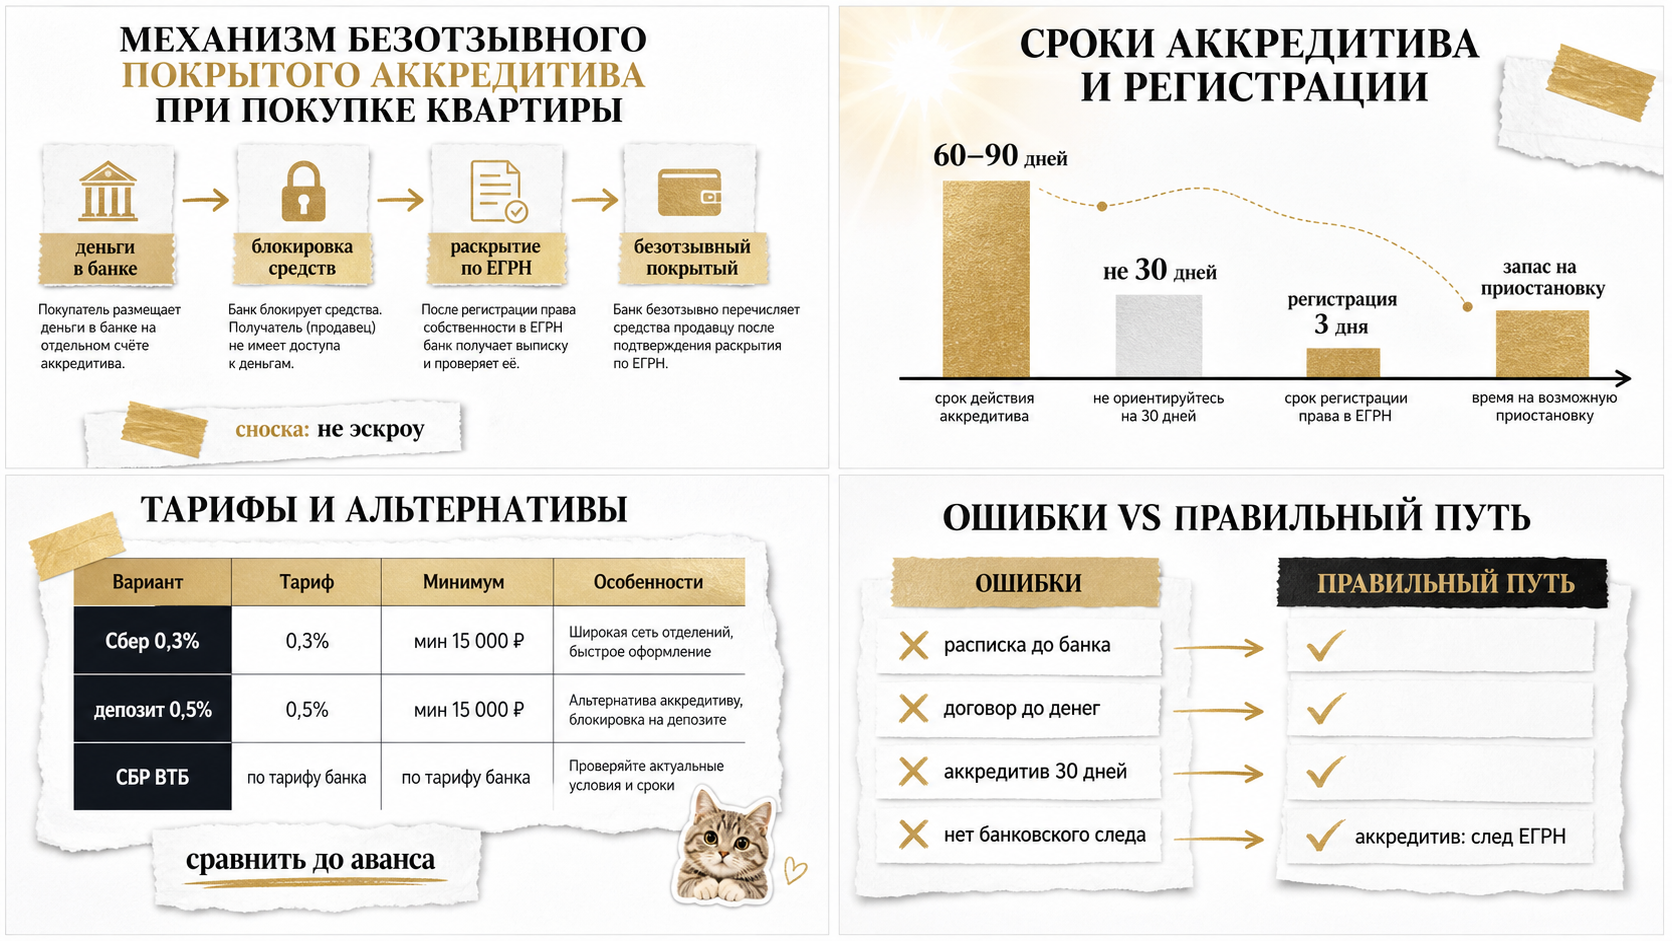
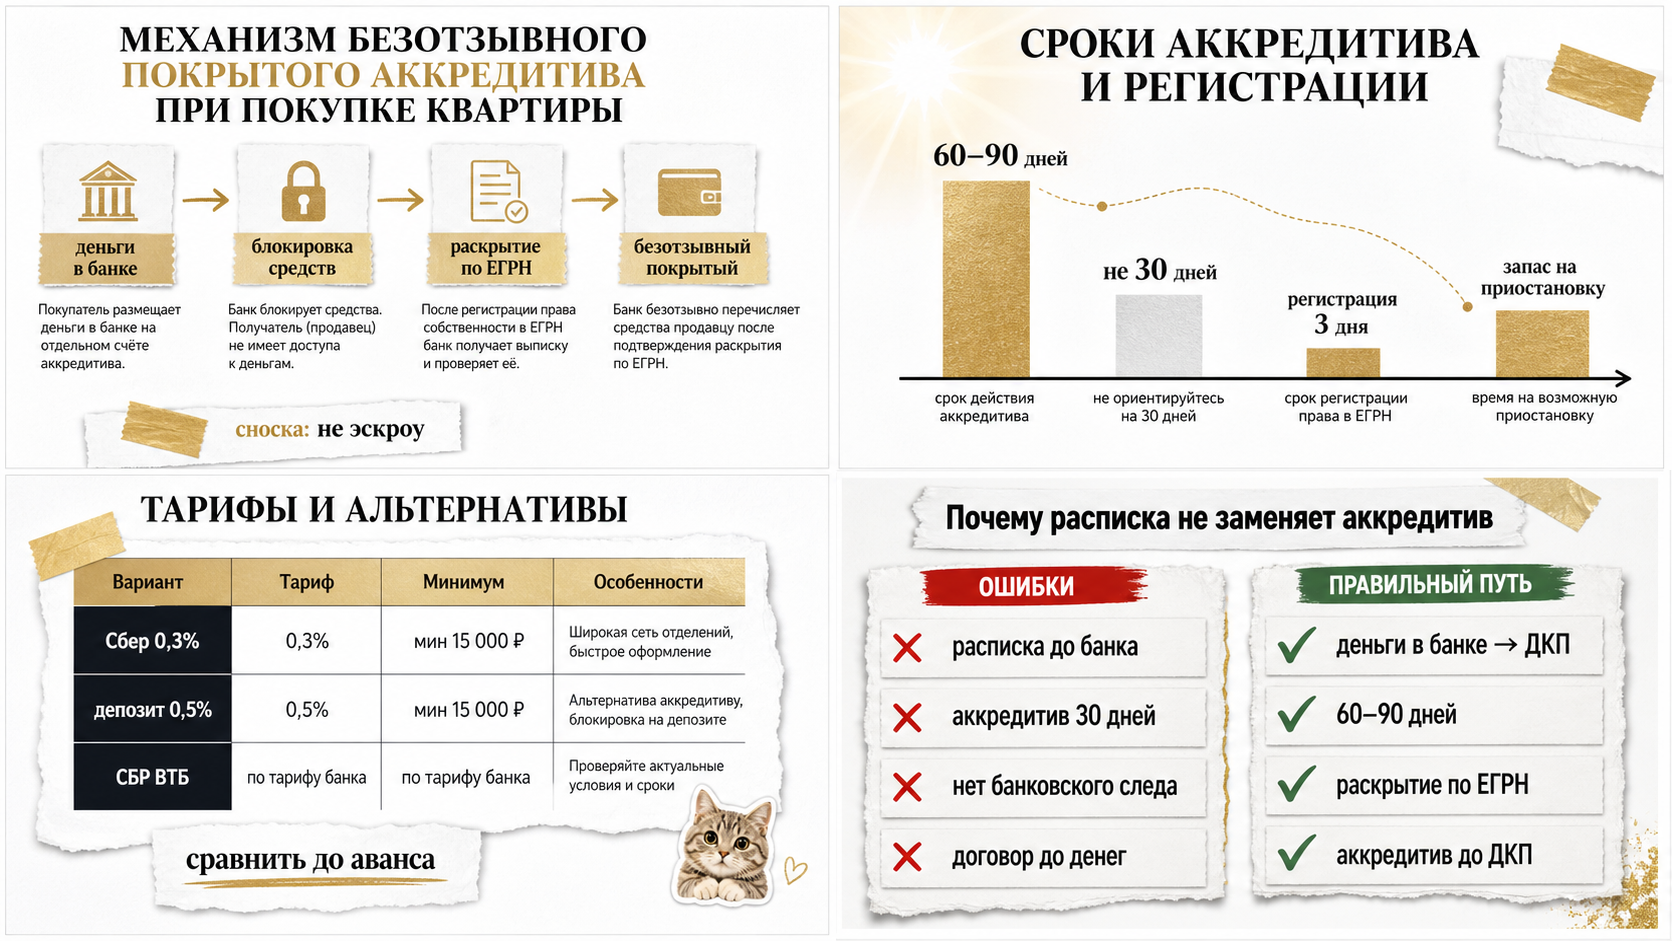
B02: переделка inline-07 — колонка ПРАВИЛЬНЫЙ ПУТЬ с 4 подписями
- Derouter canvas-2 quality=high; inline-04..06 сохранены из backup-квадрантов
- Промпт: 4 пары ошибка→норма (аккредитив до ДКП, деньги в банке, 60–90 дней, ЕГРН)
- cover.png md5 без изменений; Cover-QA PASS; без live publish

Changed region(s): [[0.4976, 0.4931, 0.9952, 1.0]]

diff --git a/memory/blog/articles/B02-raspisku-na-kvartiru-napisali-deneg-na-schete-net/article.html b/memory/blog/articles/B02-raspisku-na-kvartiru-napisali-deneg-na-schete-net/article.html
@@ -165,7 +165,7 @@
 
 <h2>Почему расписка не заменяет аккредитив</h2>
 <figure class="inline-quad" data-slot="inline_7">
-  <img src="cover/inline-07.png" alt="Типичные ошибки с распиской против банковского следа аккредитива" loading="lazy">
+  <img src="cover/inline-07.png" alt="Ошибки с распиской против правильного пути через аккредитив и ЕГРН" loading="lazy">
 </figure>
 
 <p>«Ну расписку же написали — значит, оплатил».</p>
